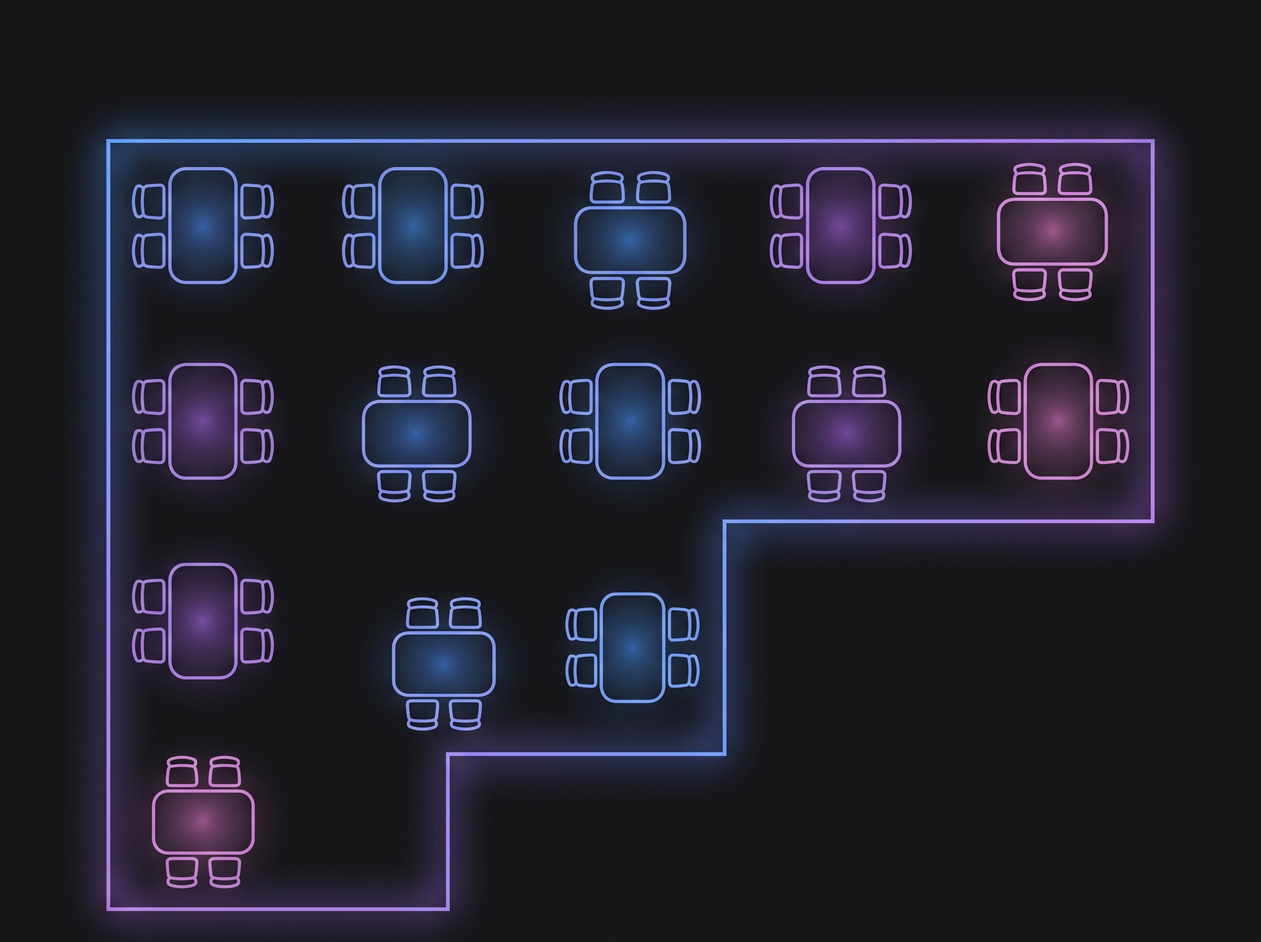
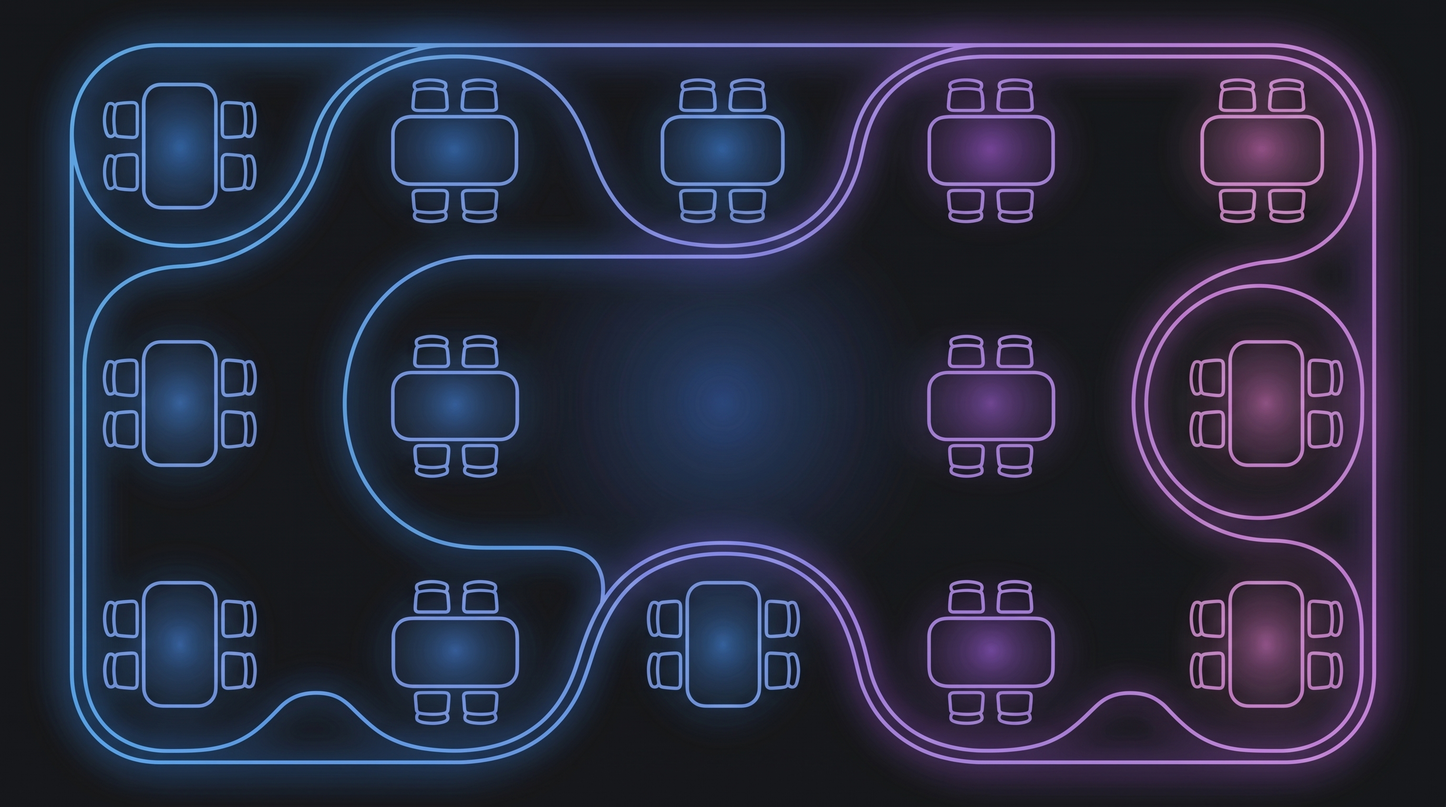
feat: calibracion del nuevo mapa simetrico de mesas 5x3, y opcion de resetear cola de facturas offline con confirmacion

diff --git a/src/components/common/InteractiveTableMap.jsx b/src/components/common/InteractiveTableMap.jsx
@@ -1,29 +1,27 @@
 import React, { useState } from 'react';
-import { motion } from 'framer-motion';
 import { Lock, Check, Map, Grid } from 'lucide-react';
 import { adminStore } from '../../services/adminStore';
 
-// Mathematical table centers aligned with public/mesas.jpg
+// Mathematical table centers aligned with new public/mesas.jpg layout
 const TABLE_POSITIONS = [
   // Fila 1 (5 mesas superiores)
-  { num: 1, x: 11.5, y: 14.0 },
-  { num: 2, x: 28.5, y: 14.0 },
-  { num: 3, x: 46.2, y: 14.8 },
-  { num: 4, x: 63.5, y: 14.0 },
-  { num: 5, x: 80.5, y: 14.8 },
-  // Fila 2 (5 mesas intermedias)
-  { num: 6, x: 11.5, y: 38.8 },
-  { num: 7, x: 28.8, y: 39.5 },
-  { num: 8, x: 46.2, y: 38.8 },
-  { num: 9, x: 63.6, y: 39.5 },
-  { num: 10, x: 81.0, y: 38.8 },
-  // Fila 3 (3 mesas en L)
-  { num: 11, x: 11.5, y: 63.0 },
-  { num: 12, x: 31.0, y: 66.0 },
-  { num: 13, x: 46.2, y: 63.0 },
-  // Fila 4 (Corredor inferior interior)
-  { num: 14, x: 11.5, y: 87.5 },
-  { num: 15, x: 24.5, y: 87.5 }
+  { num: 1, x: 12.5, y: 18.0 },
+  { num: 2, x: 31.5, y: 18.5 },
+  { num: 3, x: 50.0, y: 18.5 },
+  { num: 4, x: 68.5, y: 18.5 },
+  { num: 5, x: 87.5, y: 18.5 },
+  // Fila 2 (5 zonas intermedias / VIP)
+  { num: 6, x: 12.5, y: 50.0 },
+  { num: 7, x: 31.5, y: 50.0 },
+  { num: 8, x: 50.0, y: 50.0 }, // Zona Central Lounge VIP
+  { num: 9, x: 68.5, y: 50.0 },
+  { num: 10, x: 87.5, y: 50.0 }, // Suite VIP Circular
+  // Fila 3 (5 mesas inferiores)
+  { num: 11, x: 12.5, y: 79.0 },
+  { num: 12, x: 31.5, y: 79.5 },
+  { num: 13, x: 50.0, y: 79.0 },
+  { num: 14, x: 68.5, y: 79.5 },
+  { num: 15, x: 87.5, y: 79.0 }
 ];
 
 export default function InteractiveTableMap({
@@ -52,7 +50,7 @@ export default function InteractiveTableMap({
 
   return (
     <div className="space-y-2.5 font-sans w-full select-none">
-      {/* Header controls: Switch between Plano VIP and Cuadrícula (Clean, without yellow labels) */}
+      {/* Header controls: Switch between Plano VIP and Cuadrícula */}
       <div className="flex items-center justify-between pb-0.5">
         <span className="text-xs font-black uppercase text-gray-300 tracking-wider flex items-center gap-1.5">
           <span>📍</span>
@@ -87,11 +85,11 @@ export default function InteractiveTableMap({
         </div>
       </div>
 
-      {/* VIEW 1: MAPA / PLANO INTERACTIVO CON mesas.jpg */}
+      {/* VIEW 1: MAPA / PLANO INTERACTIVO CON NUEVA IMAGEN mesas.jpg */}
       {viewMode === 'map' ? (
         <div className="relative w-full rounded-2xl overflow-hidden border border-white/10 bg-[#07080c] shadow-2xl">
           {/* Background Floor Plan Image */}
-          <div className="relative w-full aspect-[4/3] sm:aspect-[16/11]">
+          <div className="relative w-full aspect-[16/9] sm:aspect-[16/9]">
             <img
               src="/mesas.jpg"
               alt="Plano de Mesas KAL Discobar"

diff --git a/KAL_Contingencia_Offline.html b/KAL_Contingencia_Offline.html
@@ -401,6 +401,29 @@
     .btn-secondary:hover {
       border-color: #fff;
     }
+    .btn-reset {
+      width: 100%;
+      background: rgba(239, 68, 68, 0.12);
+      border: 1px solid rgba(239, 68, 68, 0.35);
+      color: #fca5a5;
+      font-size: 11px;
+      font-weight: 800;
+      padding: 10px;
+      border-radius: 12px;
+      cursor: pointer;
+      display: flex;
+      align-items: center;
+      justify-content: center;
+      gap: 6px;
+      transition: all 0.2s ease;
+      text-transform: uppercase;
+      letter-spacing: 0.5px;
+    }
+    .btn-reset:hover {
+      background: rgba(239, 68, 68, 0.25);
+      border-color: #ef4444;
+      color: #ffffff;
+    }
     .alert-box {
       background: rgba(16, 185, 129, 0.15);
       border: 1px solid rgba(16, 185, 129, 0.3);
@@ -618,6 +641,9 @@
               <span>📋 Copiar Código</span>
             </button>
           </div>
+          <button type="button" class="btn-reset" onclick="handleClearAllQueue()">
+            <span>🗑 Limpiar / Resetear Cola Completa</span>
+          </button>
         </div>
       </div>
 
@@ -860,6 +886,25 @@
         }
       } catch (e) {}
       showAlert('⚡ ¡Facturas listas en memoria local! Abre el Dashboard y haz clic en "Sincronizar App Local" o actualiza la pestaña.');
+    }
+
+    function handleClearAllQueue() {
+      const queue = getQueue();
+      if (queue.length === 0) {
+        alert('No hay facturas en la cola para limpiar.');
+        return;
+      }
+
+      const confirmed = window.confirm(
+        `⚠ ¿Estás seguro de que deseas ELIMINAR todas las ${queue.length} facturas de la cola offline?\n\nEsta acción borrará la lista local del equipo y no se puede deshacer.`
+      );
+
+      if (confirmed) {
+        saveQueue([]);
+        renderList();
+        generateNextInvoiceNum();
+        showAlert('🗑 Se ha limpiado y reseteado toda la cola de facturas offline.');
+      }
     }
 
     // Initialize

diff --git a/public/KAL_Contingencia_Offline.html b/public/KAL_Contingencia_Offline.html
@@ -401,6 +401,29 @@
     .btn-secondary:hover {
       border-color: #fff;
     }
+    .btn-reset {
+      width: 100%;
+      background: rgba(239, 68, 68, 0.12);
+      border: 1px solid rgba(239, 68, 68, 0.35);
+      color: #fca5a5;
+      font-size: 11px;
+      font-weight: 800;
+      padding: 10px;
+      border-radius: 12px;
+      cursor: pointer;
+      display: flex;
+      align-items: center;
+      justify-content: center;
+      gap: 6px;
+      transition: all 0.2s ease;
+      text-transform: uppercase;
+      letter-spacing: 0.5px;
+    }
+    .btn-reset:hover {
+      background: rgba(239, 68, 68, 0.25);
+      border-color: #ef4444;
+      color: #ffffff;
+    }
     .alert-box {
       background: rgba(16, 185, 129, 0.15);
       border: 1px solid rgba(16, 185, 129, 0.3);
@@ -618,6 +641,9 @@
               <span>📋 Copiar Código</span>
             </button>
           </div>
+          <button type="button" class="btn-reset" onclick="handleClearAllQueue()">
+            <span>🗑 Limpiar / Resetear Cola Completa</span>
+          </button>
         </div>
       </div>
 
@@ -860,6 +886,25 @@
         }
       } catch (e) {}
       showAlert('⚡ ¡Facturas listas en memoria local! Abre el Dashboard y haz clic en "Sincronizar App Local" o actualiza la pestaña.');
+    }
+
+    function handleClearAllQueue() {
+      const queue = getQueue();
+      if (queue.length === 0) {
+        alert('No hay facturas en la cola para limpiar.');
+        return;
+      }
+
+      const confirmed = window.confirm(
+        `⚠ ¿Estás seguro de que deseas ELIMINAR todas las ${queue.length} facturas de la cola offline?\n\nEsta acción borrará la lista local del equipo y no se puede deshacer.`
+      );
+
+      if (confirmed) {
+        saveQueue([]);
+        renderList();
+        generateNextInvoiceNum();
+        showAlert('🗑 Se ha limpiado y reseteado toda la cola de facturas offline.');
+      }
     }
 
     // Initialize
